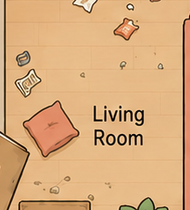
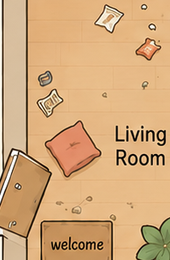
fix: tighten kitchen-table, expand lr-floor vertically, fix bath1 tall crop

diff --git a/src/data/chores.ts b/src/data/chores.ts
@@ -22,9 +22,9 @@ export interface ChoreDefinition {
 export const CHORE_DEFINITIONS: ChoreDefinition[] = [
   { id: 'kitchen-sink',  label: 'Kitchen Sink',     room: 'Kitchen',           top: '15.2%', left: '33%', sceneIndex: 0, messEmoji: '🍽️', cropWidthPct: 17.3 },
   { id: 'kitchen-floor', label: 'Kitchen Floor',     room: 'Kitchen',           top: '26.1%', left: '35%', sceneIndex: 2, messEmoji: '💧', cropWidthPct: 17.3 },
-  { id: 'kitchen-table', label: 'Kitchen Table',     room: 'Kitchen',           top: '38%', left: '35%', sceneIndex: 0, messEmoji: '🍽️', cropWidthPct: 20.5 },
-  { id: 'lr-floor',      label: 'Living Room Floor', room: 'Living Room',       top: '69.5%', left: '19.5%', sceneIndex: 2, messEmoji: '💧', cropWidthPct: 15.0 },
+  { id: 'kitchen-table', label: 'Kitchen Table',     room: 'Kitchen',           top: '38%', left: '35%', sceneIndex: 0, messEmoji: '🍽️', cropWidthPct: 14.2 },
+  { id: 'lr-floor',      label: 'Living Room Floor', room: 'Living Room',       top: '70%', left: '17%', sceneIndex: 2, messEmoji: '💧', cropWidthPct: 13.4 },
   { id: 'hallway',       label: 'Hallway Floor',     room: 'Hallway',           top: '49.9%', left: '61.9%', sceneIndex: 2, messEmoji: '💧', cropWidthPct: 28 },
-  { id: 'bath1-sink',    label: 'Bathroom 1',        room: 'Bathroom 1',        top: '75.5%', left: '46%', sceneIndex: 3, messEmoji: '🧴', cropWidthPct: 12.6 },
+  { id: 'bath1-sink',    label: 'Bathroom 1',        room: 'Bathroom 1',        top: '72%', left: '49.5%', sceneIndex: 3, messEmoji: '🧴', cropWidthPct: 10.2 },
   { id: 'bath2-sink',    label: 'Bathroom 2',        room: 'Bathroom 2',        top: '67%', left: '72%', sceneIndex: 3, messEmoji: '🧴', cropWidthPct: 15.8 },
 ]